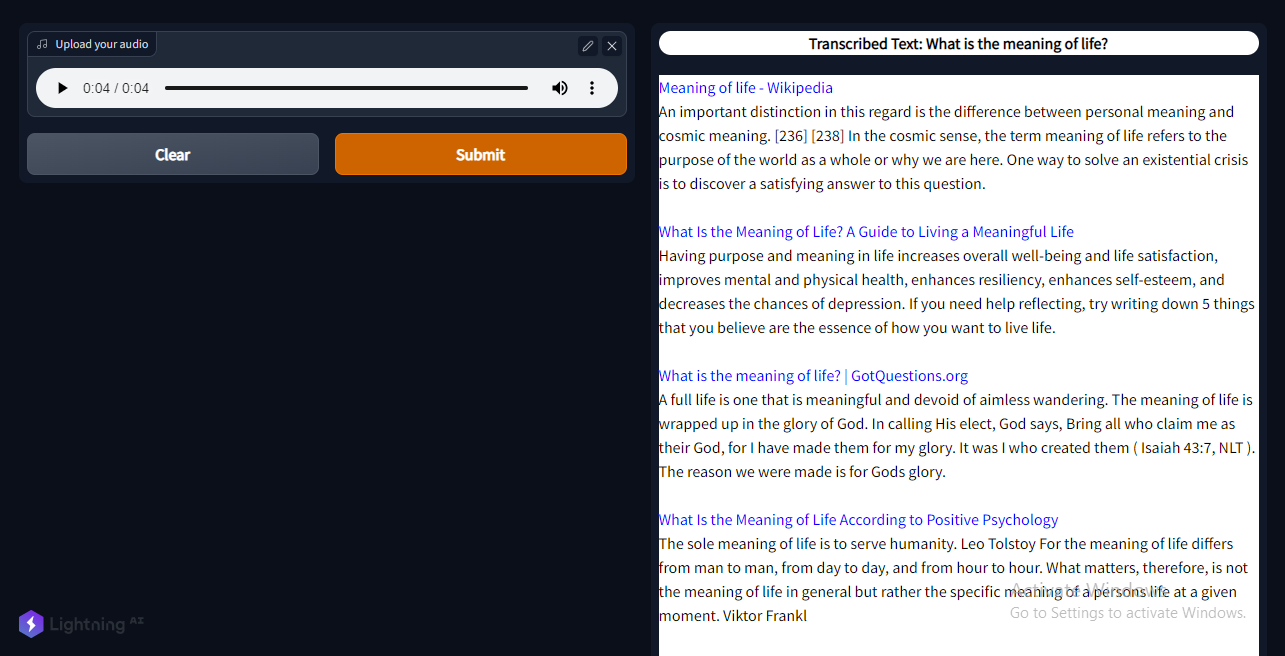
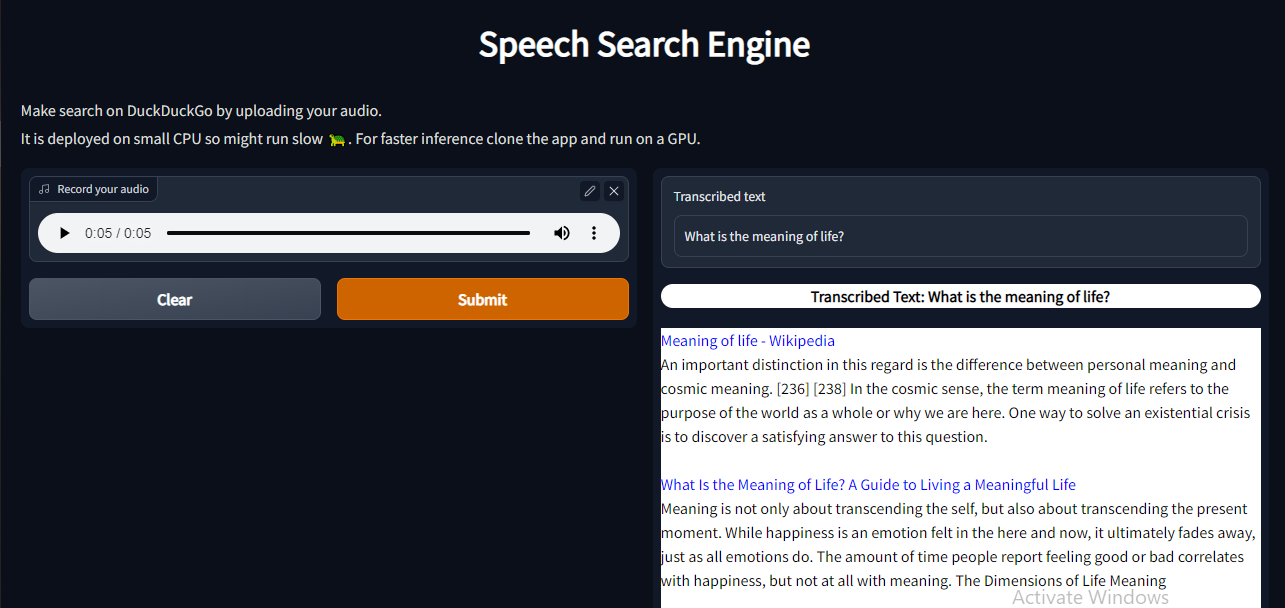
changed UI description & new demo img for readme

diff --git a/LAI_voice_search_openai_whisper_demo/components/web_ui.py b/LAI_voice_search_openai_whisper_demo/components/web_ui.py
@@ -75,8 +75,8 @@ class LitGradio(ServeGradio):
             examples=self.examples,
             title="Speech Search Engine",
             description="""Make search on DuckDuckGo by uploading your audio.
-            <br>It is deployed on small CPU so might run slow 🐢. 
-            For faster inference clone the app and run on a GPU.""",
+            <br>It is deployed on small CPU so might run slow 🐢 - About 120s for a 5 second audio.
+            <br>For faster inference clone the app and run on a GPU.""",
             article="""Powered by OpenAI's <a href="https://openai.com/blog/whisper/">Whisper</a>, 
             it approaches human level robustness and accuracy on English speech recognition.""",
             cache_examples=True,
